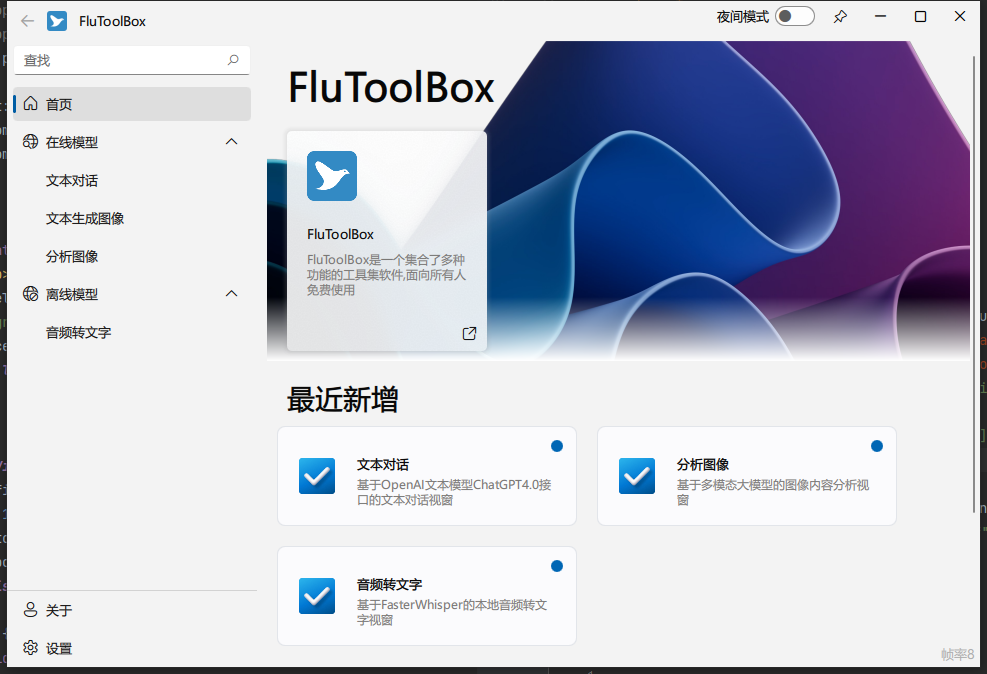
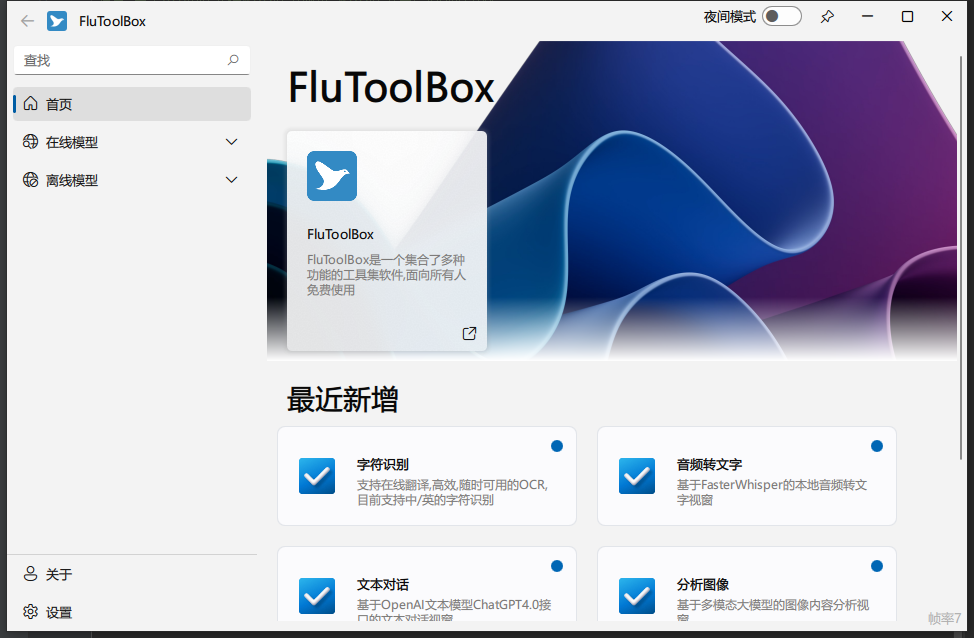
v0.0.2

diff --git a/README.md b/README.md
@@ -5,51 +5,44 @@
   <img width=250 src="doc/preview/fluentd.svg">
 </div>
 <p align="center">
-基于Pyside6-Qml打造的开箱即用多功能工具箱,暂不存在开源计划,如需使用请移步Releases下载使用
+基于Pyside6-Qml打造的开箱即用多功能工具箱,暂不计划开源,如需使用请移步Releases下载使用
 </p>
 <p align="center">
-(PS:对于在线模型部分,额度用完后看心情更新或自行使用你自己api key)
+(PS:对于在线模型部分,额度用完后看心情更新或自行使用你自己OpenAI key)
 </p>
 
 <p align="center">
 <a ><img src="https://img.shields.io/badge/Windows-pass-flygreen"></a>
 </p>
 
-[win-badge]: https://github.com/zhuzichu520/FluentUI/workflows/Windows/badge.svg  "Windows"
-
-[ubuntu-link]: https://github.com/zhuzichu520/FluentUI/actions?query=workflow%3AUbuntu "UbuntuAction"
-
-[ubuntu-badge]: https://github.com/zhuzichu520/FluentUI/workflows/Ubuntu/badge.svg "Ubuntu"
-
-[macos-link]: https://github.com/zhuzichu520/FluentUI/actions?query=workflow%3AMacOS "MacOSAction"
-
-[macos-badge]: https://github.com/zhuzichu520/FluentUI/workflows/MacOS/badge.svg "MacOS"
-
 ## Requirements
 
 ```
-注意:由于qt6不在支持win7以下版本,win7以下用户请酌情下载
+注意:由于qt6不再支持win7以下版本,win7以下用户请酌情下载
 ```
 
 ## Get started
 + 进入[Releases](https://github.com/RichaoWang/FluToolBox/releases)下,根据版本下载最新的FluToolBox,双击exe即可使用.
 ```
-对于离线模型部分,权重文件较大,故不好一并打包,如果你有用到该部分的功能,请根据页面指引下载对应权重文件,并放置于exe文件同级目录下
+对于离线模型部分,部分权重文件较大,故不好一并打包,如果你有用到该部分的功能,请根据页面指引下载对应权重文件(如果因为网络的问题不好远端下载到,可联系本人获取)
 ```
 
 ## Screen shots
 
 * 首页
-    * <img width=80% src="doc/preview/home.png">
+    * <img width=60% src="doc/preview/home.png">
 
 * 文本对话
-    * <img width=80% src="doc/preview/chat.png">
+    * <img width=60% src="doc/preview/chat.png">
 
 * 分析图像
-    * <img width=80% src="doc/preview/parimage.png">
+    * <img width=60% src="doc/preview/parimage.png">
 
 * 音频转文字
-    * <img width=80% src="doc/preview/audio2text.png">
+    * <img width=60% src="doc/preview/audio2text.png">
+
+* 字符识别
+  * <img width=60% src="doc/preview/ocr.png">
 
 ## Reference
 
